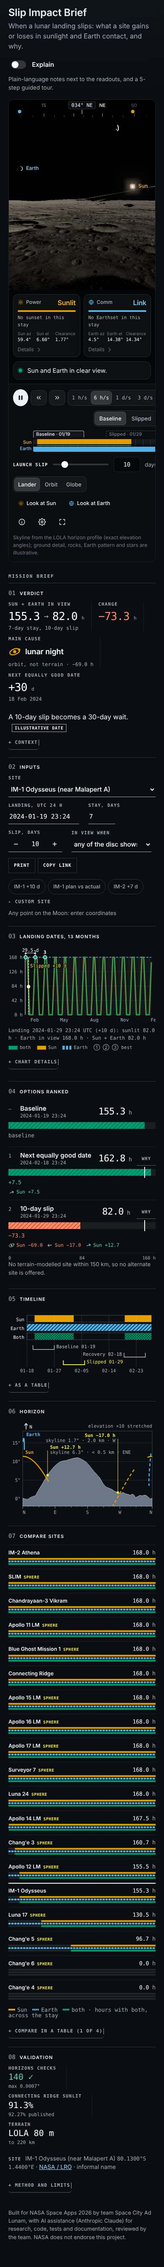
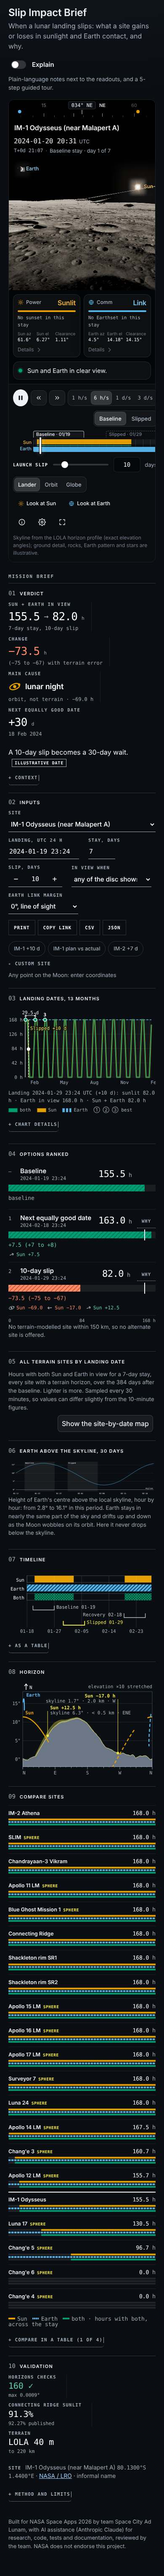
B: merge main (new data); retake after screenshots, IM-1 now 155.5 -> 82.0 h from the engine
Claude-Session: https://claude.ai/code/session_01WwDCQt2hdWfW76KHyGkxYE

Changed region(s): [[0.0308, 0.0, 0.9538, 0.9963], [0.6462, 0.2491, 0.7077, 0.2802]]

diff --git a/STATUS-B.md b/STATUS-B.md
@@ -4,6 +4,12 @@ _Updated: Sun 15 Nov 2026, 12:58 CT_
 
 <!-- AI-ASSISTED: drafted with Claude (Anthropic), reviewed by the human team. -->
 
+## Data refresh (Sun 13:05 CT)
+Merged `origin/main` (f8509b0) with Agent A's new data. The verdict strip reads every number from the engine, so
+the IM-1 example now shows **155.5 → 82.0 h** on its own (was 155.3 with the earlier horizon). No figure is
+hard-coded in the app; the "after" screenshots in `docs/design/` were retaken on the new data. Older notes
+further down this file that say 155.3 describe the earlier data. 47 tests pass.
+
 ## Round 3: visual redesign below the simulator (Sun, PR #7 opened about 12:50 CT)
 Times in the two sections below were estimates written during the work; the real clock was earlier than stated.
 UI only. No engine maths, data or contract changes. Direction and references: `docs/design.md`.
